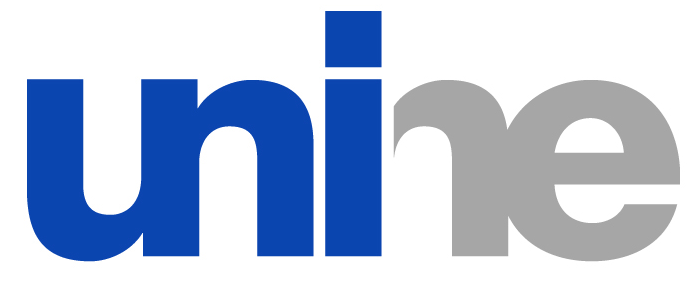
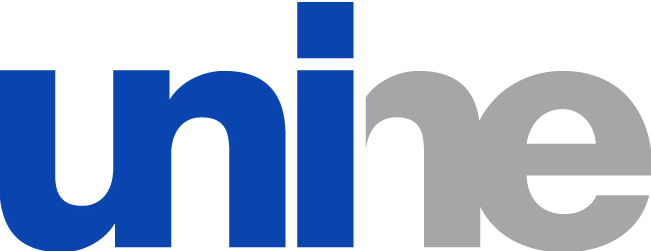
almost finished

diff --git a/short-w-images/SegarraCarlos_CV.tex b/short-w-images/SegarraCarlos_CV.tex
@@ -5,6 +5,7 @@
 \usepackage{url,parskip} % Formatting packages
 \usepackage{graphicx}
 \usepackage{adjustbox}
+\usepackage{multirow}
 
 \usepackage[usenames,dvipsnames]{xcolor} % Required for specifying custom colors
 
@@ -37,13 +38,13 @@
 
 \begin{table}[ht]
 \begin{minipage}{0.77\linewidth}
-    \begin{tabular}{L{1.75cm}p{3cm}p{2cm}L{1.4cm}L{1.5cm}}
-        Full Name: & \textbf{Carlos Segarra} & & \multicolumn{2}{l}{\textbf{Languages:}} \\
-        Birthday: & 09/06/1996 & & Spanish: & Native\\
-        Residence: & Barcelona, Spain & & Catalan: & Native \\
-        Website: & \href{https://carlossegarra.com}{carlossegarra.com} & & English: & C2\\
-        Mail: & \small{carlossegarragonzalez@gmail.com} & & French: & Fluent \\
-        Phone: & +34 699 20 89 00 & & German: & A2
+    \begin{tabular}{L{1.75cm}p{3cm}p{2cm}L{1.4cm}L{1.5cm}p{1.05cm}C{1.5cm}}
+        Full Name: & \textbf{Carlos Segarra} & & \multicolumn{2}{l}{\textbf{Languages:}} & & \multirow{2}{*}{\href{https://www.ac.upc.edu/en}{\XeTeXLinkBox{\includegraphics[height=0.5cm]{img/git.png}}}}\\
+        Birthday: & 09/06/1996 & & Spanish: & Native & & \\
+        Residence: & Barcelona, Spain & & Catalan: & Native & & \multirow{2}{*}{\href{https://www.ac.upc.edu/en}{\XeTeXLinkBox{\includegraphics[height=0.5cm]{img/git.png}}}}\\
+        Website: & \href{https://carlossegarra.com}{carlossegarra.com} & & English: & C2 & &\\
+        Mail: & \small{carlossegarragonzalez@gmail.com} & & French: & Fluent & & \multirow{2}{*}{\href{https://www.ac.upc.edu/en}{\XeTeXLinkBox{\includegraphics[height=0.5cm]{img/git.png}}}}\\
+        Phone: & +34 699 20 89 00 & & German: & A2 & &
     \end{tabular}
 \end{minipage}\hfill
 \begin{minipage}{0.2\linewidth}
@@ -58,7 +59,7 @@
 \end{table}
 
 \section{Short Bio}
-\begin{tabular}{p{\dimexpr1.5cm+\columnWidth}}
+\begin{tabular}{p{\dimexpr1.5cm+15.5cm}}
     I am a MSc student in advanced mathematics at the School of Mathematics from the Technical University of Catalonia, in Barcelona, Spain.
     I am focusing on graph theory, combinatorics and cryptography.
     Further, I also attend courses on distributed systems, concurrency, and networking from the Master in Research in Informatics.
@@ -67,61 +68,62 @@
 \end{tabular}
 
 \section{Publications}
-\begin{tabular}{p{\dimexpr1.5cm+\columnWidth}}
-    C. Segarra, M. Lemay, R. Delgado-Gonzalo, and V. Schiavoni, \textbf{\textit{"Using Trusted Execution Environments for Secure Stream Processing of Medical Data"}}. DAIS'19, Copenhagen, Denmark, June 17-21, 2019. \\[3pt]
-    C. Segarra, E. Muntan\'e, M. Lemay, V. Schiavoni, and  R. Delgado-Gonzalo, \textbf{\textit{"Secure Stream Processing for Medical Data"}}. IEEE EMBC'19, Berlin, Germany, July 23-27, 2019. \\
+\begin{tabular}{p{\dimexpr1.5cm+15.5cm}}
+    \textit{(Submitted)} C. Segarra, R. Delgado-Gonzalo, V. Schiavoni, \textbf{\textit{"MQT-TZ: Secure MQTT Broker for Biomedical Signal Processing on the Edge}}. MIE 2020, Geneva, Switzerland. May 19-20, 2020. \\[3pt]
+    C. Segarra, E. Muntan\'e, M. Lemay, V. Schiavoni, and  R. Delgado-Gonzalo, \textbf{\textit{"Secure Stream Processing for Medical Data"}}. IEEE EMBC'19, Berlin, Germany, July 23-27, 2019. \\[3pt]
+    C. Segarra, M. Lemay, R. Delgado-Gonzalo, and V. Schiavoni, \textbf{\textit{"Using Trusted Execution Environments for Secure Stream Processing of Medical Data"}}. DAIS'19, Copenhagen, Denmark, June 17-21, 2019. \\
 \end{tabular}
 
 \section{Work Experience}
 %
 \begin{tabular}{R{1.5cm}|p{\columnWidth}L{2cm}}
-    \emph{Current} & Research Collaborator at the \textbf{\textsc{Technical University of Catalonia}} & \href{https://www.csem.ch/}{\XeTeXLinkBox{\includegraphics[width=1cm]{img/logoUPC.png}}}\\
+    \emph{Current} & Research Collaborator at the \textbf{\textsc{Technical University of Catalonia}} & \href{https://www.ac.upc.edu/en}{\XeTeXLinkBox{\includegraphics[width=2cm]{img/upc-long.png}}}\\
     \textsc{10/2019} & \multicolumn{2}{l}{\small{\emph{Computer Architecture Department, School of Informatics} - Sup. Jordi Guitart, PhD }} \\ 
     & \footnotesize{Research collaborator with the Computer Architecture Department (DAC) of the School of Informatics (FIB) of the Technical University of Catalonia (UPC) in Barcelona, Spain. Under the supervision of Jordi Guitart, we work on live migration of Docker containers with the goal of performing live migrations of container clusters. To perform migrations we rely on Checkpoint Restore In Userspace (CRIU) technology.}
 \end{tabular}
 
 \begin{tabular}{R{1.5cm}|p{\columnWidth}L{2cm}}
-    \emph{Current} & Research Assistant at the \textbf{\textsc{Universit\'e de Neuch\^atel}} & \href{https://www.csem.ch/}{\XeTeXLinkBox{\includegraphics[height=0.5cm]{img/unine}}}\\
+    \emph{Current} & Research Assistant at the \textbf{\textsc{Universit\'e de Neuch\^atel}} & \href{https://www.unine.ch/iiun/home/chaires-de-recherche/systemes-complexes.html}{\XeTeXLinkBox{\includegraphics[width=2cm]{img/unine}}}\\
     \textsc{08/2019} & \multicolumn{2}{l}{\small{\emph{Complex Systems Group, Institut d'Informatique} - Sup. Valerio Schiavoni, PhD }}\\ 
     & \footnotesize{Research collaborator with the Complex Systems Group from the UniNe. Currently working on an emulation platform for distributed applications. We simulate arbitrary topologies basing on the end-to-end properties of the links among the different nodes in the network, and dynamic link behaviours using traffic control functionalities available in the Linux Kernel. For the emulated deployment we rely on Docker containers and orchestrators such as Swarm and Kubernetes.} &
 \end{tabular}
 
 \begin{tabular}{R{1.5cm}|p{\columnWidth}L{2cm}}
     \textsc{07/2019} & Trainee at the \textbf{\textsc{Swiss Center for Electronics and Microtechnology} (CSEM)} & \href{https://www.csem.ch/}{\XeTeXLinkBox{\includegraphics[width=2cm]{img/csem}}}\\
-    \textsc{10/2018} & \multicolumn{2}{l}{\small{\emph{Embedded Software Group} - Sup. Ricard Delgado Gonzalo, PhD}}\\ 
+    \textsc{10/2018} & \multicolumn{2}{l}{\small{\emph{Embedded Software Group} - Sup. Ricard Delgado-Gonzalo, PhD}}\\ 
     & \footnotesize{Intern at the Embedded Software Division of the CSEM in Neuch\^atel, CH, using Trusted Execution Environments to perform privacy-preserving computations on IoT medical devices. Developed a distributed streaming platform on Intel SGX and a secure implementation of the MQTT broker relying on TLS and ARM TrustZone. Collaborator in two H2020 EU Projects: ACTIVAGE and TABEDE. In the former, responsible of implementing part of the Security \& Privacy module and in the latter responsible of implementing the User Control Interface, visualizing data coming from a variety of IoT devices.} &
 \end{tabular}
 
-\begin{tabular}{R{1.5cm}|p{\columnWidth}}
-    \textsc{09/2018} & Trainee at \textbf{\textsc{Nokia Bell Labs}} \\
-    \textsc{06/2018} & \small{\emph{Security Group} - Sup. Matteo Signorini, PhD and Matteo Pontecorvi, PhD}\\ 
-& \footnotesize{Summer intern at the the Cybersecurity department at Nokia Bell Labs in Paris-Saclay, France. I developed a graph-based model to detect, cluster and classify chains of malicious transactions in the Bitcoin's Blockchain. By defining an abstraction layer atop the chain and an isomorphism class, we managed to identify a variety of malicious services.}
+\begin{tabular}{R{1.5cm}|p{\columnWidth}L{2cm}}
+    \textsc{09/2018} & Trainee at \textbf{\textsc{Nokia Bell Labs}} & \href{https://www.csem.ch/}{\XeTeXLinkBox{\includegraphics[width=2cm]{img/bell-labs.png}}}\\
+    \textsc{06/2018} & \small{\emph{Security Group} - Sup. Matteo Signorini, PhD and Matteo Pontecorvi, PhD} & \\ 
+    & \footnotesize{Summer intern at the the Cybersecurity department at Nokia Bell Labs in Paris-Saclay, France. I developed a graph-based model to detect, cluster and classify chains of malicious transactions in the Bitcoin's Blockchain. By defining an abstraction layer atop the chain and an isomorphism class, we managed to identify a variety of malicious services.} &
 \end{tabular}
 
-\begin{tabular}{R{1.5cm}|p{\columnWidth}}
-    \textsc{06/2018} & Research Student at the \textbf{\textsc{Barcelona Supercomputing Center} (BSC)} \\
-    \textsc{04/2017} & \small{\emph{Workflows and Distributed Computing Group} - Sup. Rosa M. Badia, PhD} \\ 
-    & \footnotesize{Research student at the Workflows and Distributed Computing Group at the BSC in Barcelona, Spain. I developed, deployed and benchmarked a distributed implementation of the DBSCAN clustering algorithm using COMP Superscalar, a programming model for distributed computing. Evaluation was done in the \textit{Mare Nostrum} supercomputer.}
+\begin{tabular}{R{1.5cm}|p{\columnWidth}L{2cm}}
+    \textsc{06/2018} & Research Student at the \textbf{\textsc{Barcelona Supercomputing Center} (BSC)} & \href{https://www.csem.ch/}{\XeTeXLinkBox{\includegraphics[width=2cm]{img/bsc.jpeg}}}\\
+    \textsc{04/2017} & \small{\emph{Workflows and Distributed Computing Group} - Sup. Rosa M. Badia, PhD} & \\ 
+    & \footnotesize{Research student at the Workflows and Distributed Computing Group at the BSC in Barcelona, Spain. I developed, deployed and benchmarked a distributed implementation of the DBSCAN clustering algorithm using COMP Superscalar, a programming model for distributed computing. Evaluation was done in the \textit{Mare Nostrum} supercomputer.} &
 \end{tabular}
 
 \section{Education}
 
-\begin{tabular}{R{1.5cm}|p{\columnWidth}}	
-    \textsc{07/2020} & Master in \textbf{\textsc{Advanced Mathematics and Mathematical Engineering} (MAMME)} \\ 
-    \textsc{09/2019} & \small{\emph{Technical University of Catalonia}, UPC}\\
-     & \footnotesize{MSc in Advanced Mathematics with a focus in Discrete Mathematics and Algorithms. Enrolled to courses from the Master in Research in Informatics (MIRI-UPC). Relevant courses cover: Graph Theory, Codes and Cryptography, and Concurrence, Parallelism, and Distributed Systems.}
+\begin{tabular}{R{1.5cm}|p{\columnWidth}L{2cm}}	
+    \textsc{07/2020} & Master in \textbf{\textsc{Advanced Mathematics and Mathematical Engineering}}  & \href{https://mamme.masters.upc.edu/en}{\XeTeXLinkBox{\includegraphics[width=2cm]{img/upc-long.png}}} \\ 
+    \textsc{09/2019} & \small{\emph{School of Mathematics and Statistics - Technical University of Catalonia}, UPC} & \\
+     & \footnotesize{MSc in Advanced Mathematics with a focus in Discrete Mathematics and Algorithms. Enrolled to courses from the Master in Research in Informatics (MIRI-UPC). Relevant courses cover: Graph Theory, Codes and Cryptography, and Concurrence, Parallelism, and Distributed Systems.} &
 \end{tabular}
 
-\begin{tabular}{R{1.5cm}|p{\columnWidth}}	
-    \textsc{05/2019} & Bachelor's degree in \textbf{\textsc{Mathematics}} \\ 
-    \textsc{09/2014} & \small{\emph{Technical University of Catalonia}, UPC}\\
-     & \footnotesize{BSc in Mathematics within a double degree program in the Interdisciplinary Higher Education Center (CFIS) at the UPC. Relevant coursework covers real and complex analysis, statistics, probability and graph theory, combinatorics and algorithms.}
+\begin{tabular}{R{1.5cm}|p{\columnWidth}L{2cm}}	
+    \textsc{05/2019} & Bachelor's degree in \textbf{\textsc{Mathematics}} & \href{https://fme.upc.edu/en}{\XeTeXLinkBox{\includegraphics[width=2cm]{img/upc-long.png}}} \\  
+    \textsc{09/2014} & \small{\emph{School of Mathematics and Statistics - Technical University of Catalonia}, UPC} & \\
+     & \footnotesize{BSc in Mathematics within a double degree program in the Interdisciplinary Higher Education Center (CFIS) at the UPC. Relevant coursework covers real and complex analysis, statistics, probability and graph theory, combinatorics and algorithms.} &
 \end{tabular}
 
-\begin{tabular}{R{1.5cm}|p{\columnWidth}}	
-    \textsc{05/2019} &  Bachelor`s degree in \textbf{\textsc{Telecommunications Science and Technology}}\\ 
-    \textsc{09/2014} & \small{\emph{Technical University of Catalonia}, UPC} \\
-     & \footnotesize{BSc in Telecommunications Engineering within a double degree program in the Interdisciplinary Higher Education Center (CFIS) at the UPC. Relevant coursework covers networking and concurrency, digital and analogical communications and real time digital signal processing.}
+\begin{tabular}{R{1.5cm}|p{\columnWidth}L{2cm}}	
+    \textsc{05/2019} &  Bachelor`s degree in \textbf{\textsc{Telecommunications Science and Technology}} & \href{https://www.ac.upc.edu/en}{\XeTeXLinkBox{\includegraphics[width=2cm]{img/upc-long.png}}} \\  
+    \textsc{09/2014} & \small{\emph{Technical University of Catalonia}, UPC} & \\
+     & \footnotesize{BSc in Telecommunications Engineering within a double degree program in the Interdisciplinary Higher Education Center (CFIS) at the UPC. Relevant coursework covers networking and concurrency, digital and analogical communications and real time digital signal processing.} &
 \end{tabular}
 
 %\begin{tabular}{R{1.5cm}|p{13.8cm}}	
